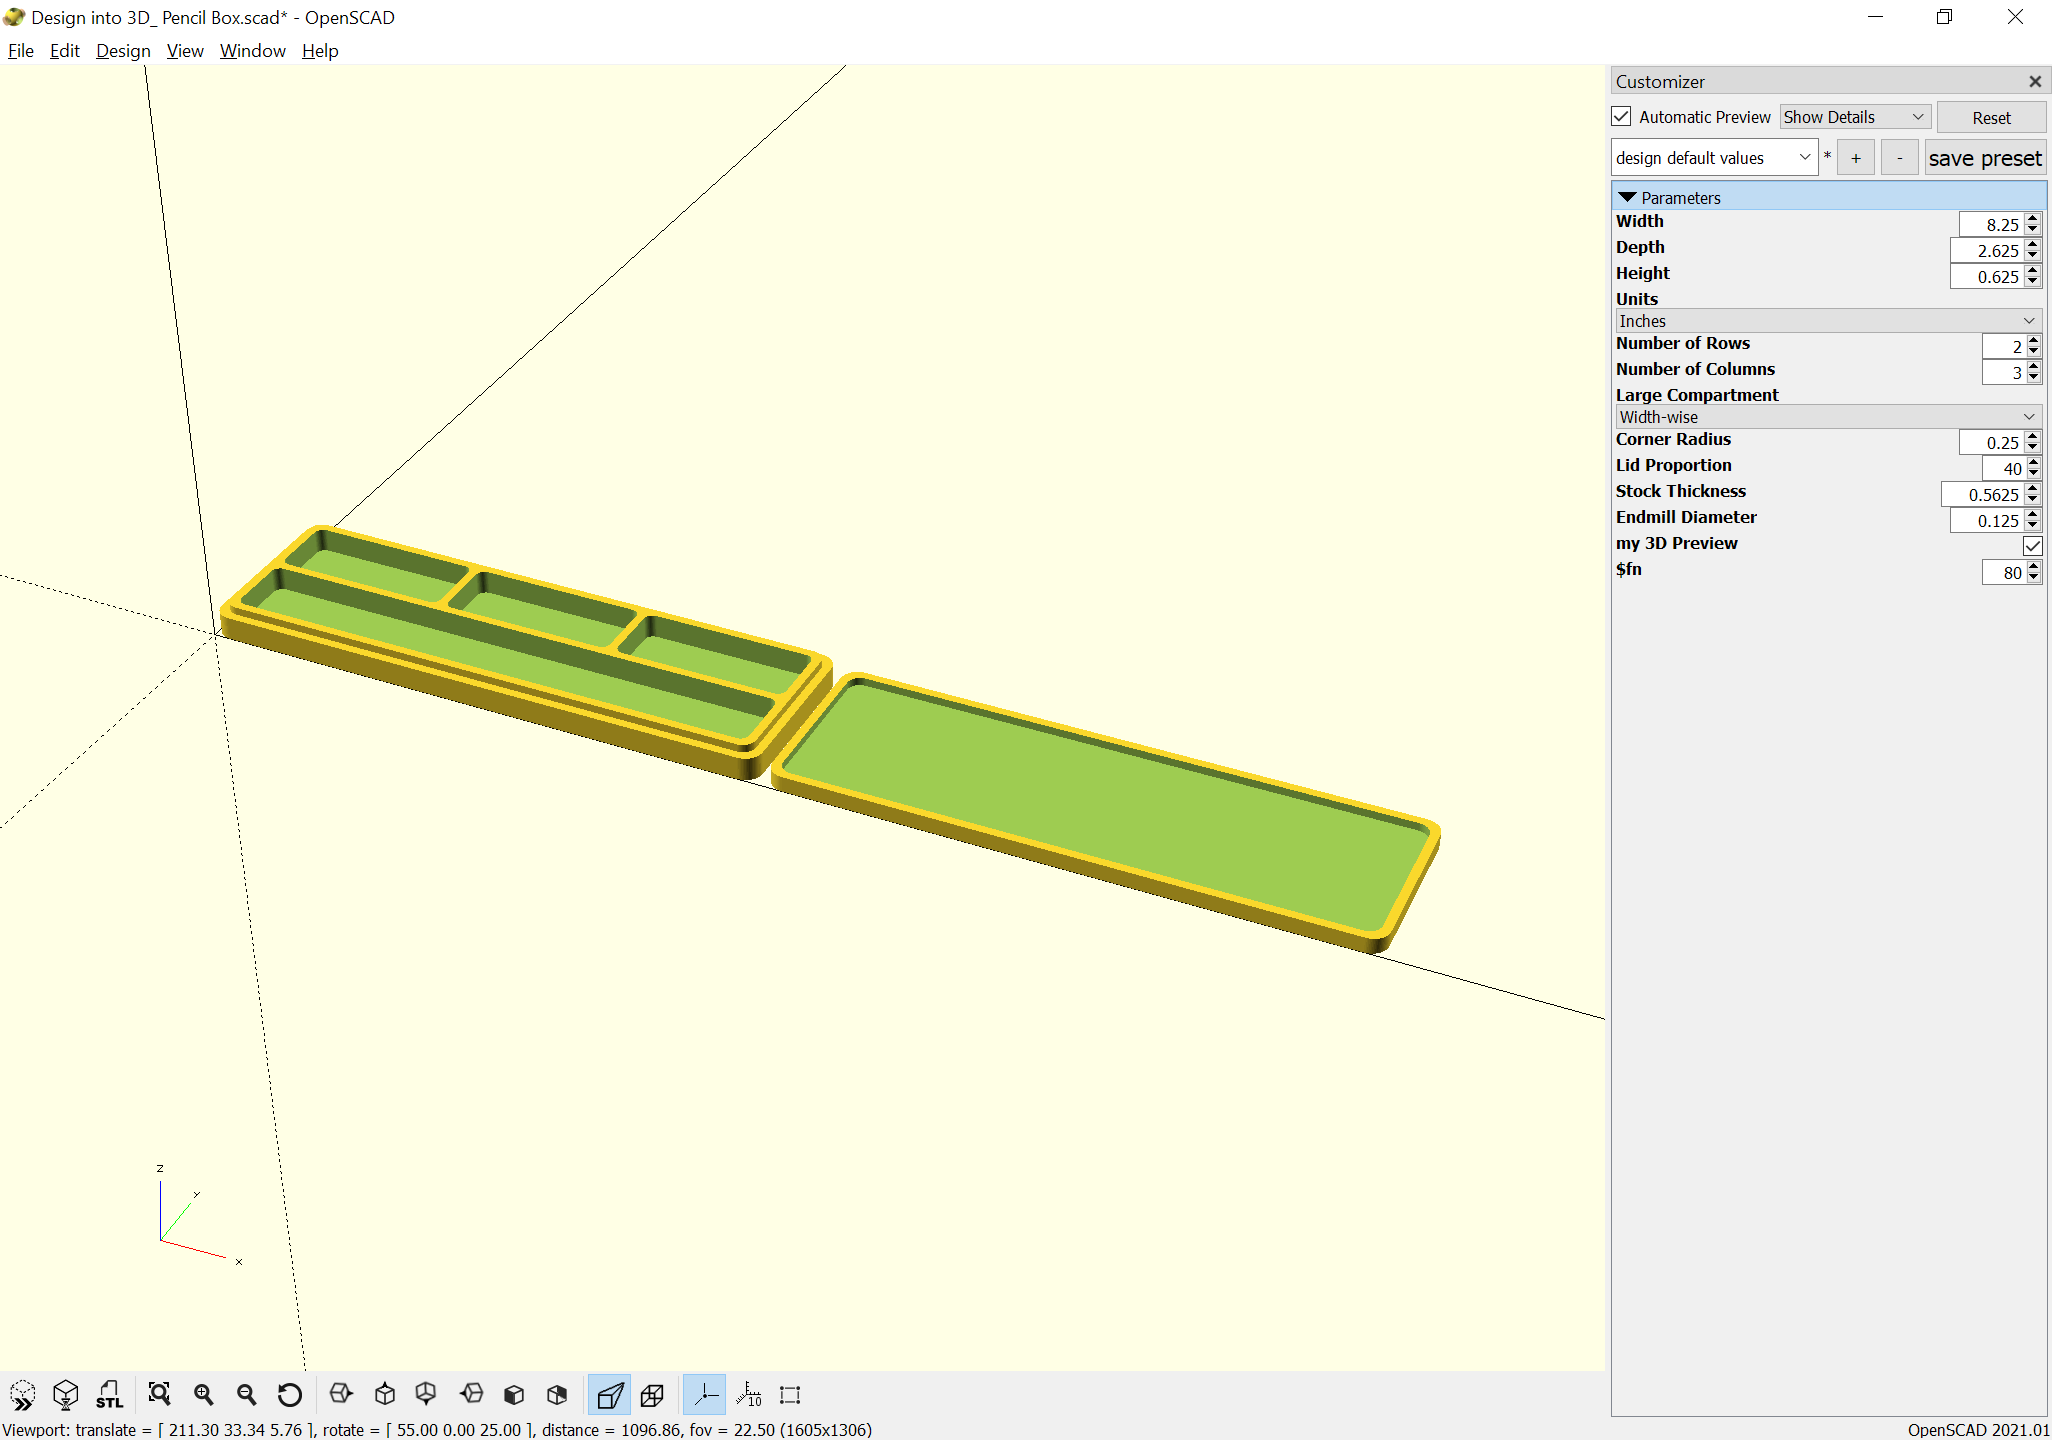
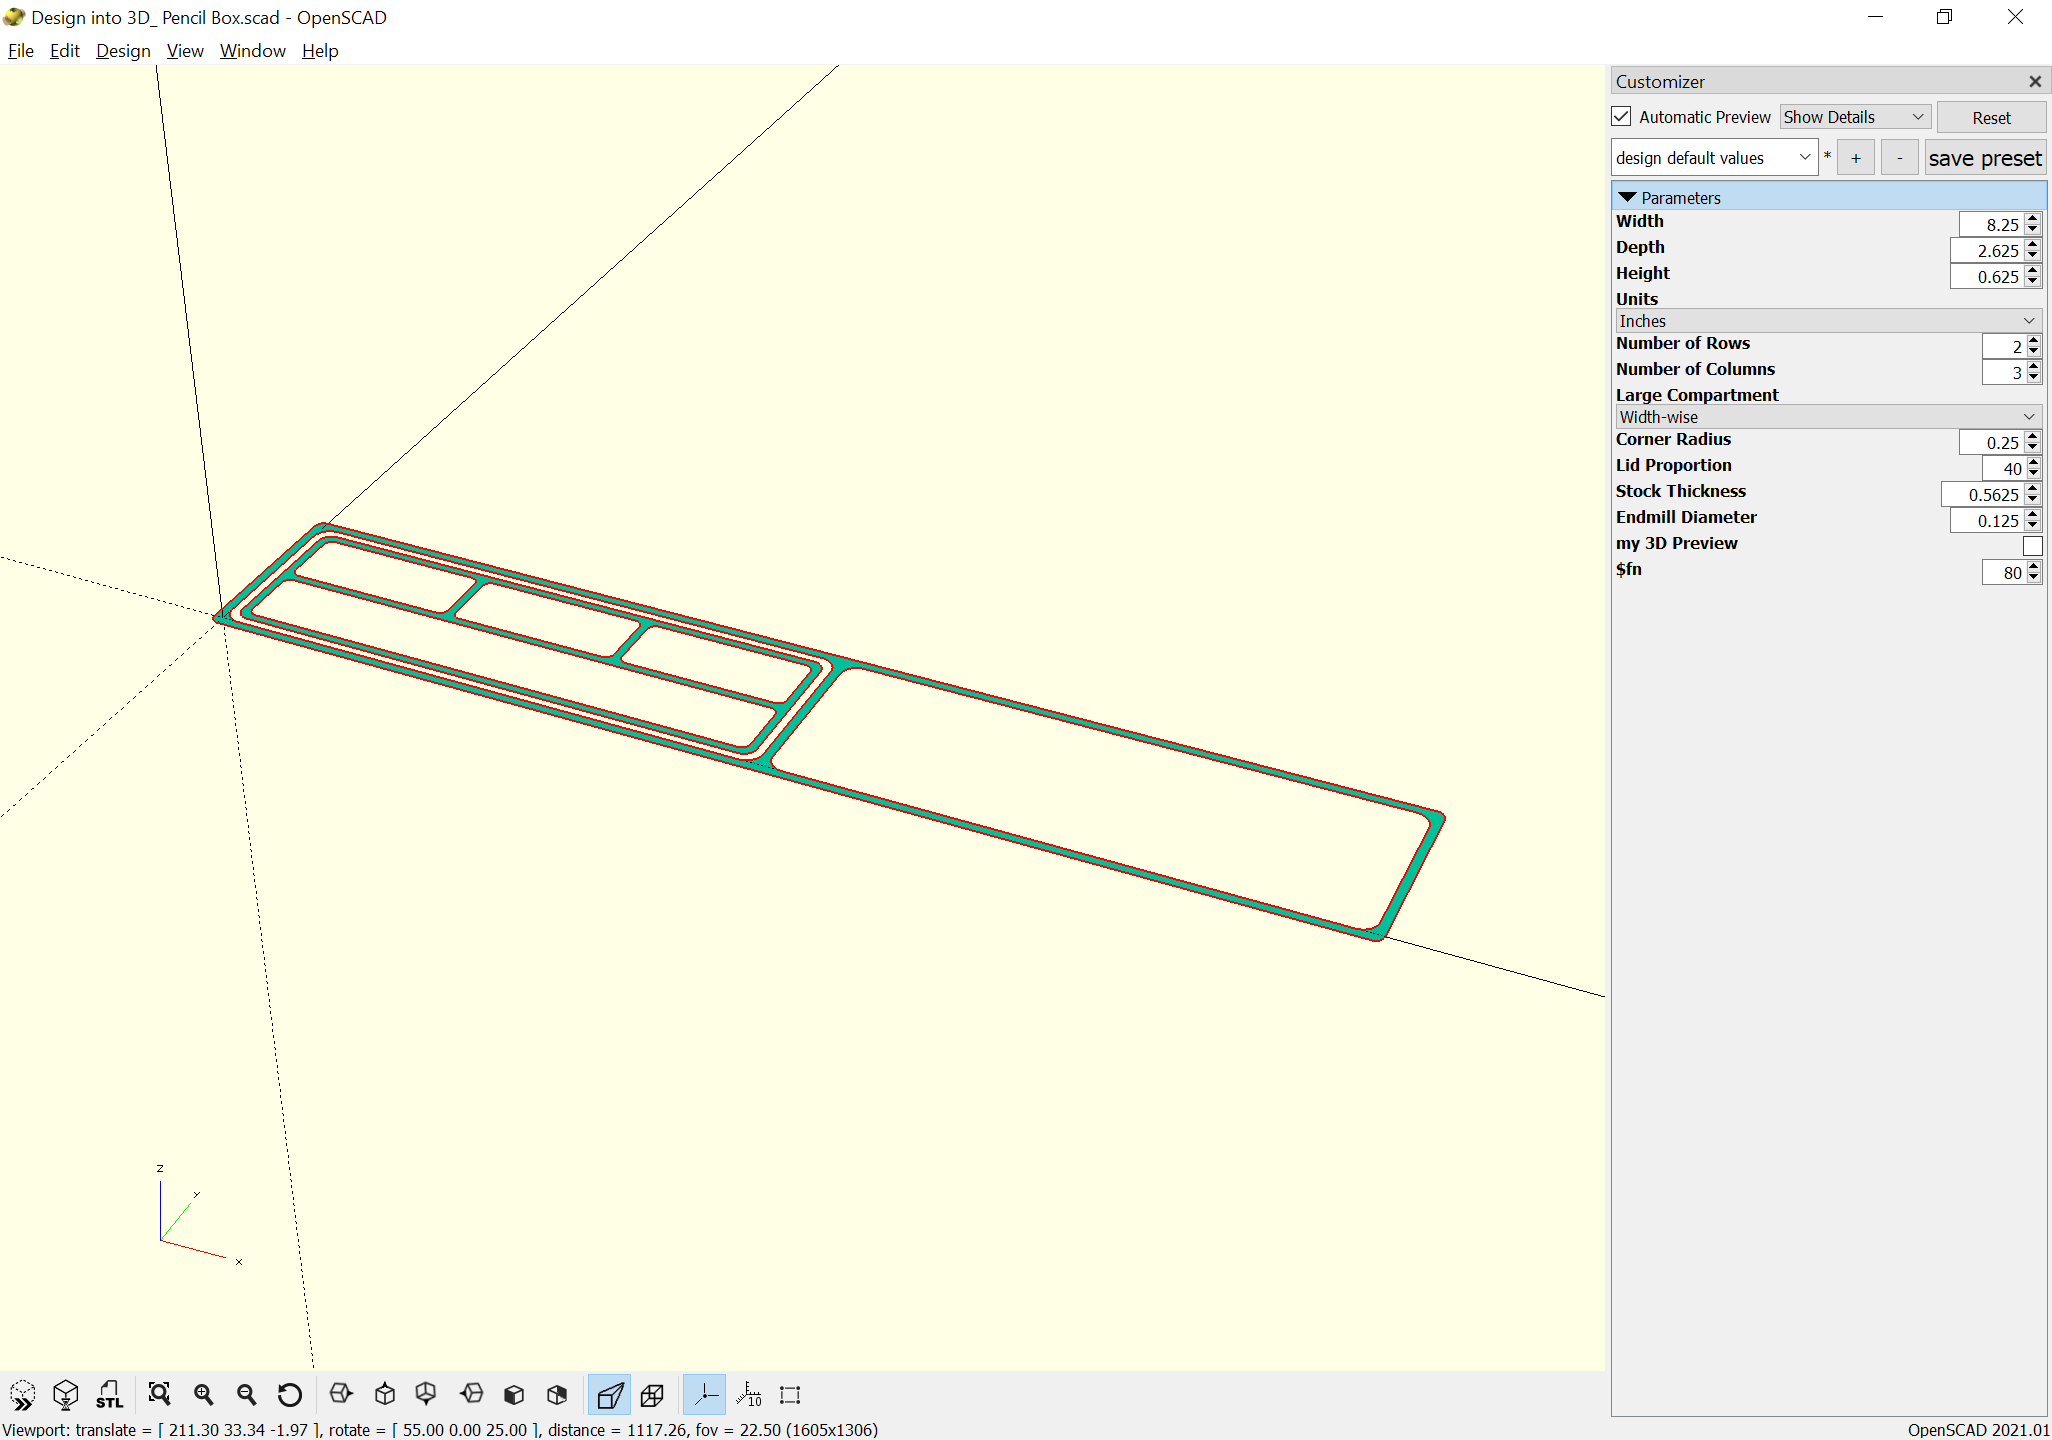
GitBook: [master] one page and 5 assets modified

Changed region(s): [[0.0936, 0.3438, 0.7173, 0.6875], [0.1248, 0.9688, 0.4366, 1.0], [0.1559, 0.0, 0.1871, 0.0312]]

diff --git a/pencil-box-with-fitted-lid.md b/pencil-box-with-fitted-lid.md
@@ -18,13 +18,13 @@ Then modules for cutting each part:
 
 ![Pencil Box top module](.gitbook/assets/image%20%2880%29.png)
 
-![Pencil Box bottom module setup](.gitbook/assets/image%20%2883%29.png)
+![Pencil Box bottom module setup](.gitbook/assets/image%20%2884%29.png)
 
-![Pencil Box bottom module loop](.gitbook/assets/image%20%2884%29.png)
+![Pencil Box bottom module loop](.gitbook/assets/image%20%2885%29.png)
 
 Creating a file for cutting is simply a matter of capturing each elevation of features:
 
-![](.gitbook/assets/image%20%2882%29.png)
+![](.gitbook/assets/image%20%2883%29.png)
 
 Available at:
 
@@ -46,13 +46,15 @@ Endmill_Diameter = 0.125;
 my_3D_Preview = false;   
 $fn=80;`
 
-![Pencil Box in OpenSCAD with customization](.gitbook/assets/image%20%2881%29.png)
+![Pencil Box in OpenSCAD with customization](.gitbook/assets/image%20%2882%29.png)
 
 Add the command:
 
 `projection()`
 
 to get a flattened view which may be exported to a DXF or SVG and then imported into Carbide Create:
+
+![Pencil Box in OpenSCAD projection](.gitbook/assets/image%20%2881%29.png)
 
 
 
